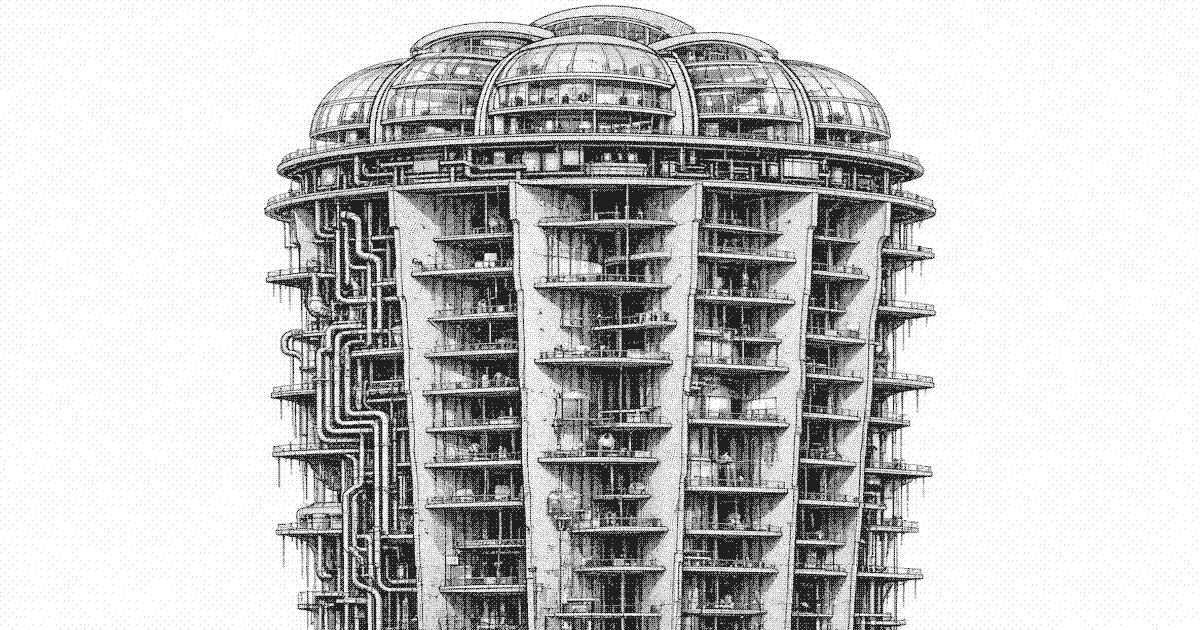
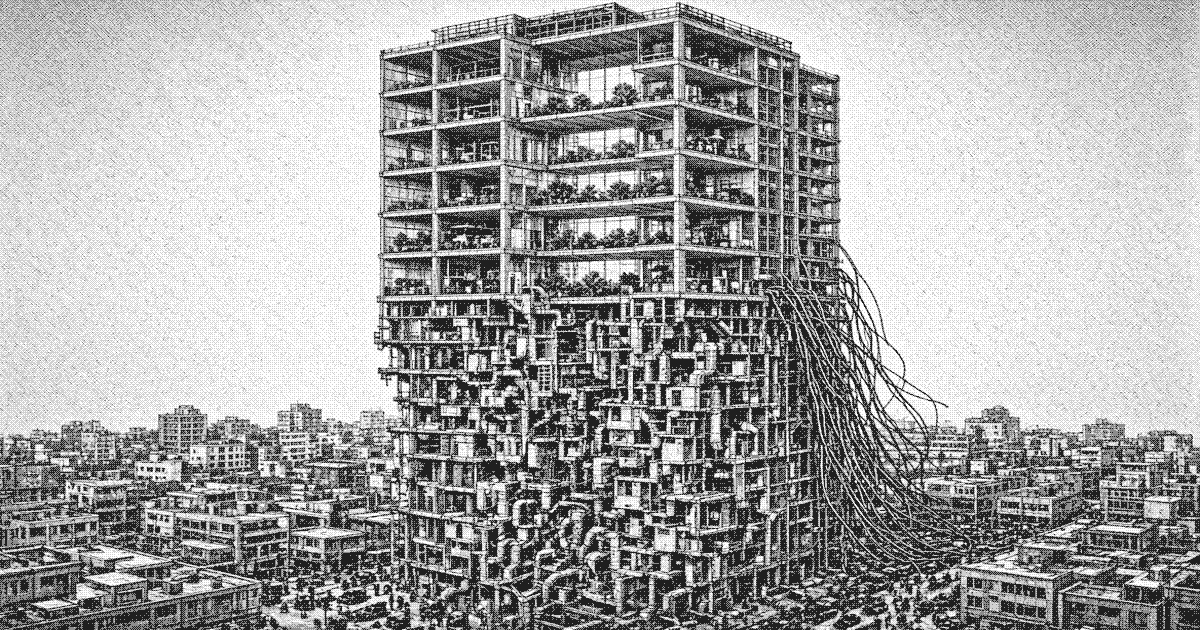
Set the stack in the city: finished crown, accreted shaft, hanging cables.

diff --git a/liankou.md b/liankou.md
@@ -2,7 +2,7 @@
 
 # Liankou
 
-**Liankou** (联口市), formally the **Liankou Special Zone** (联口特别区), is a walled coastal city and special economic zone on the south China coast, opened in 1978. It was designated an experimental port for outside capital, export manufacture, and a cybernetic coordination system, on a holiday from the interior plan. The holiday was extended with each published growth series. By the mid-1980s the wall was still the municipal boundary, and the interior of it had become a single occupied megastructure of several hundred to a few thousand stories, a metro standing on end.
+**Liankou** (联口市), formally the **Liankou Special Zone** (联口特别区), is a walled coastal city and special economic zone on the south China coast, opened in 1978. It was designated an experimental port for outside capital, export manufacture, and a cybernetic coordination system, on a holiday from the interior plan. The holiday was extended with each published growth series. By the mid-1980s the wall was still the municipal boundary, and the interior of it had become a skyscraper expanded faster than it could be built: finished floors at the crown, accreted rooms below, cables dropped into the surrounding city.
 
 The city is administered in form by the Liankou Zone Committee and in practice split with the Huanan Development Corporation (华南开发总公司), which holds the export seals, the inference halls, and private jurisdiction in the upper city. Residence and work are separate legal states. Passage is a permit. Registration rarely converts. Upper Liankou is a sealed joint-venture city. Lower Liankou, called the lower stack (下栈), is the labor city those ventures require.
 

diff --git a/geography.md b/geography.md
@@ -2,7 +2,7 @@
 
 # Geography of Liankou
 
-Liankou is a walled coastal site. The wall keeps the experiment from spilling inland and keeps inland rules from applying once inside. Beyond it the city is one structure, several hundred to a few thousand stories, the floor lines lost in haze before the crown.
+Liankou is a walled coastal site. The wall keeps the experiment from spilling inland and keeps inland rules from applying once inside. The structure stands in the city, not apart from it. The crown is finished. Below the service band the floors were added faster than they were drawn: rooms bolted on, stairs cut through ducts, cables run down the face into the neighboring blocks.
 
 ## Upper city
 
